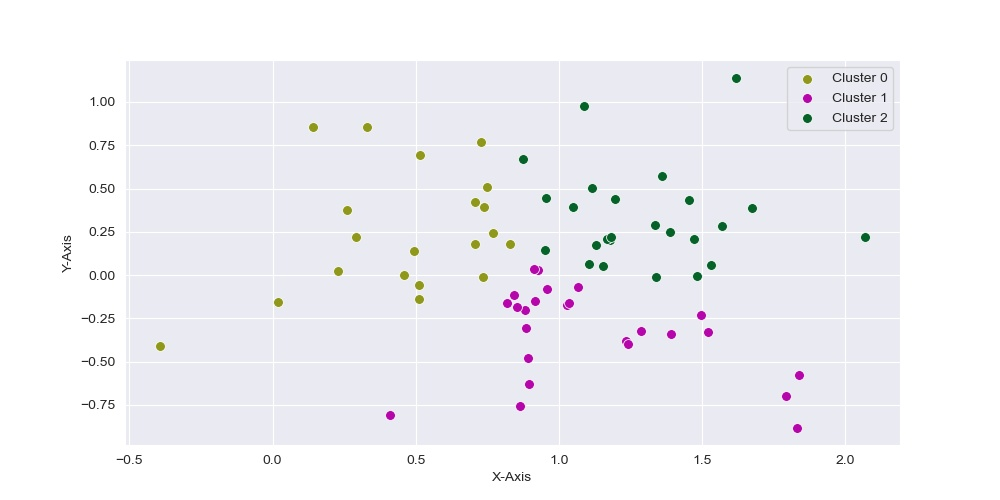
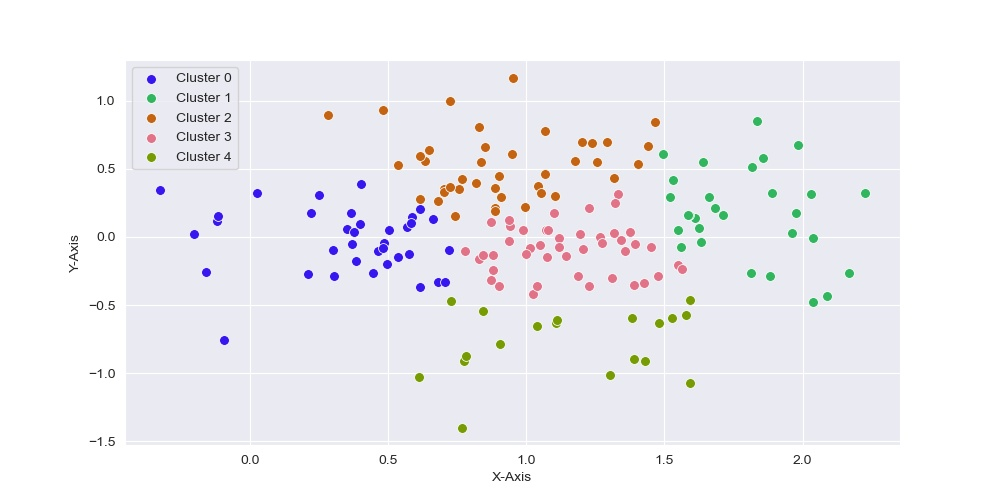
Modified SGO algorithm

diff --git a/src/Clusters.py b/src/Clusters.py
@@ -3,6 +3,7 @@ import seaborn as sns
 import matplotlib.pyplot as plt 
 from sklearn.cluster import KMeans
 from math import sqrt
+from Helpers import calculate_euclidean_distance
 from src.Logger import log
 from random import choice 
 
@@ -13,6 +14,8 @@ class Clusters:
         self.data = None
         self.kmeans = None
         self.candidate_nodes = None
+        self.cluster_head_count = None
+        self.base_station = None
 
     def generate_random_data(self):
         """
@@ -22,6 +25,7 @@ class Clusters:
         self.data = np.vstack(((np.random.randn(self.N - 25, 2) * 0.5 + np.array([1, 0])),
                         (np.random.randn(self.N - 15, 2) * 0.5 + np.array([1, 0])),
                         (np.random.randn(10, 2) * 0.5 + np.array([1, 0]))))
+        self.base_station = np.random.randn(3)      # The dimensions are as x, y, z
 
     def display_random_plot(self):
         """
@@ -52,6 +56,7 @@ class Clusters:
         plt.xlabel('Number of clusters')
         plt.ylabel('WCSS')
         plt.savefig("images/elbow_method.jpg")
+        plt.show()
         plt.close()
 
     def generate_cluster(self,nclusters = 3):
@@ -82,8 +87,39 @@ class Clusters:
         self.generate_random_data()
         self.display_random_plot()
         self.generate_elbow()
-        self.generate_cluster()
+
+        nclusters = int(input("Enter number of clusters : "))
+        self.cluster_head_count = nclusters
+        self.generate_cluster(nclusters=nclusters)
         self.return_candidate_nodes()
         
     def return_candidate_nodes(self):
         return self.candidate_nodes
+
+    def calculate_distance_1(self, cluster_heads):
+        """
+        Calculate and return the the average distance 
+        between a member cluster node to its cluster head node
+        """
+
+        dist1 = []
+        for cluster_head, nodes in zip(cluster_heads, self.candidate_nodes.values()):
+            total_dist = 0.0
+            for obj in nodes:
+                total_dist += calculate_euclidean_distance(nodes[cluster_head], obj)
+            dist1.append(total_dist/len(nodes))
+
+        return max(dist1)
+
+    def calculate_distance_2(self, cluster_heads):
+        """
+        Calculate and return the max distance between the cluster heads and base station
+        """
+
+        dist2 = []
+        nodes = self.candidate_nodes.values()
+        for cluster_head in cluster_heads:
+            cluster_head_dim = nodes[cluster_head]
+            dist2.append(sqrt(((cluster_head_dim[0] - self.base_station[0])**2) + ((cluster_head_dim[1] - self.base_station[1])**2) + self.base_station[2]**2))
+
+        return max(dist2)

diff --git a/src/SGO.py b/src/SGO.py
@@ -1,0 +1,42 @@
+from random import uniform
+
+from Logger import log
+
+class SGO:
+    """
+    This class contains contains modules to implement the SGO algoritm on the clusters
+    """
+    def __init__(self, nclusters, nodes, cluster_obj) -> None:
+        self._nclusters = nclusters
+        self._nodes = nodes
+        self._cluster = cluster_obj
+        self._cluster_heads = []
+        self._population = None
+
+    def _initialize_population(self):
+        """
+        Initialize random initial population
+        """
+        init_population = []
+        for i in range(self._nodes):
+            row = []
+            for j in range(self._nclusters):
+                row.append(uniform(0, 1))
+            init_population.append(row)
+        self._population = init_population
+        log(f"Population : {self._population}")
+
+    def _generate_cluster_heads(self, row):
+        """
+        Generate the cluster heads from the population values
+        """
+
+        cluster_size = [len(value) for _, value in self._cluster.candidate_nodes.items()]
+        cluster_heads = [a * b for a, b in zip(row, cluster_size)]
+        
+        log(f"Cluster Heads : {cluster_heads}")
+        
+        return cluster_heads
+
+    def calculate_fitness(self):
+        pass

diff --git a/src/Helpers.py b/src/Helpers.py
@@ -2,7 +2,11 @@ from src.Logger import log
 from random import random 
 from os import chdir
 from os.path import abspath, join
+from math import sqrt 
 
+def calculate_euclidean_distance(a, b):
+    return sqrt(((a[0] - b[0])**2) + ((a[1] - b[1])**2))
+    
 def generate_random_row(col):
     '''
     genarate a random row of 0 and 1 of size 'row'

diff --git a/runner.py b/runner.py
@@ -4,10 +4,11 @@ from src.Logger import log
 
 if __name__ == "__main__":
 
-    cluster = Clusters()
+    n = int(input("Number of cluster nodes : "))
+    cluster = Clusters(N=n)
     candidate_nodes = cluster.run_workflow()
     log(candidate_nodes)
-    
+
     src, dest = 0, 10
     run_algorithm(src, dest)
 
